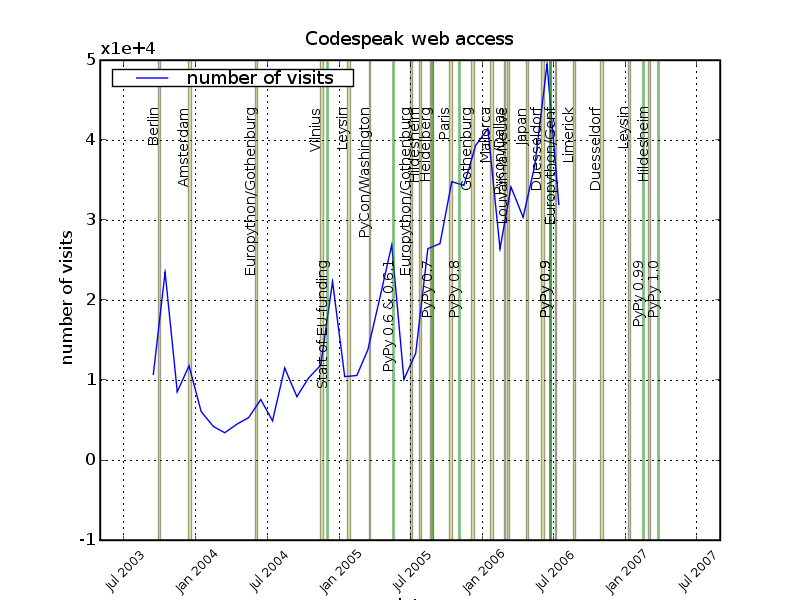
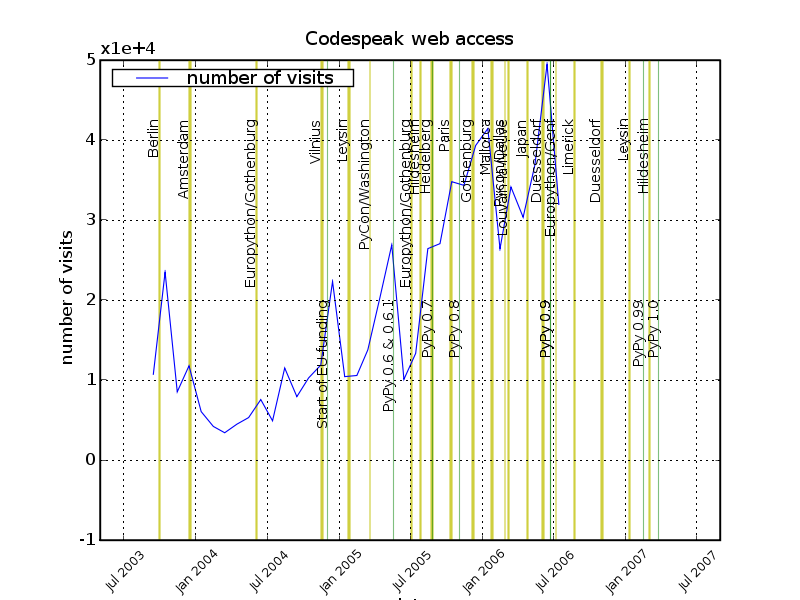
try to improve the plots (with limited success)
--HG--
extra : convert_revision : svn%3A5fdb0b31-00ae-4507-bd76-94d651a7451c/pypy/dist%4041713

Changed region(s): [[0.2812, 0.09, 0.8438, 0.9], [0.1875, 0.12, 0.25, 0.9]]

diff --git a/pypy/doc/statistic/format.py b/pypy/doc/statistic/format.py
@@ -60,7 +60,7 @@ def csv2png(p):
     ax = pylab.subplot(111)
     for i, d in enumerate(data[1:]):
         args = [dates, d, colors[i]]
-        pylab.plot_date(*args)
+        pylab.plot_date(linewidth=0.8, *args)
 
     ymax = max(pylab.yticks()[0]) #just below the legend
     for i, release_date in enumerate(release_dates):
@@ -69,13 +69,12 @@ def csv2png(p):
             color = 0.3
         else:
             color = "g"
-        pylab.axvline(release_date, linewidth=2, color=color, alpha=0.5)
-        ax.text(release_date, ymax * 0.5, release_name,
+        pylab.axvline(release_date, linewidth=0.8, color=color, alpha=0.5)
+        ax.text(release_date, ymax * 0.4, release_name,
                 fontsize=10,
                 horizontalalignment='right',
                 verticalalignment='top',
                 rotation='vertical')
-
     for i, location in enumerate(sprint_locations):
         begin = sprint_begin_dates[i]
         end   = sprint_end_dates[i]
@@ -84,13 +83,12 @@ def csv2png(p):
                 color = 0.8
             else:
                 color = "y"
-            pylab.axvspan(begin, end, facecolor=color, alpha=0.2)
-            ax.text(begin, ymax * 0.88, location,
+            pylab.axvspan(begin, end, linewidth=0, facecolor=color, alpha=0.5)
+            ax.text(begin, ymax * 0.85, location,
                     fontsize=10,
                     horizontalalignment='right',
                     verticalalignment='top',
                     rotation='vertical')
-
     pylab.legend(axis[1:], "upper left")
     pylab.xlabel(axis[0])
     pylab.ylabel(axis[1])
